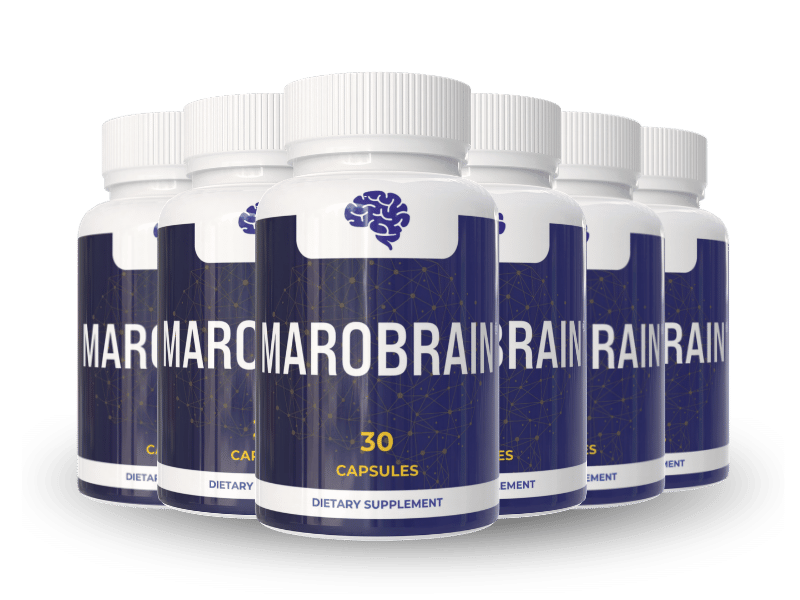
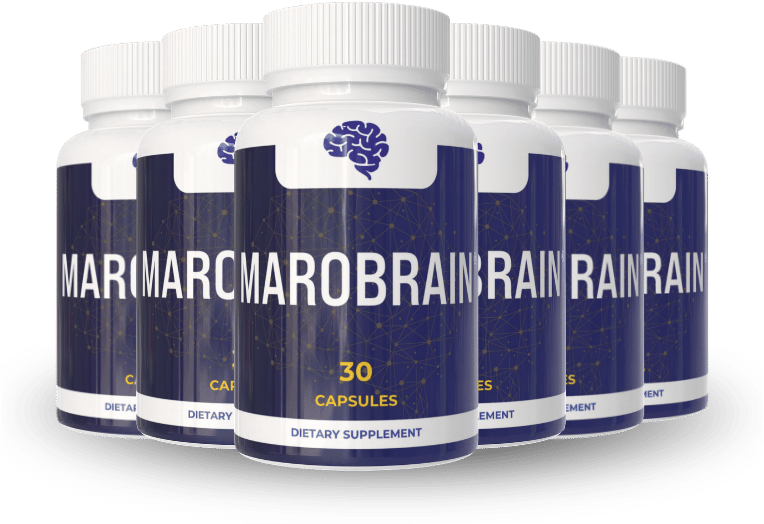
fix(marobrain): ampliar hero-image e kit no desktop com autocrop e regras CSS

diff --git a/assets/css/products/marobrain.css b/assets/css/products/marobrain.css
@@ -18,15 +18,70 @@
   --badge-border: rgba(245, 197, 24, .6);
 }
 
+/* Dimensões e destaque visual aprimorado para o produto Marobrain */
+.hero-image {
+  padding: 30px 0 20px;
+  min-height: 420px;
+  display: flex;
+  align-items: center;
+  justify-content: center;
+}
+.hero-image a {
+  display: inline-flex;
+  justify-content: center;
+  align-items: center;
+  max-width: 100%;
+}
+.hero-image img {
+  width: auto;
+  height: auto;
+  max-height: 440px;
+  max-width: min(580px, 90vw);
+  object-fit: contain;
+  filter: drop-shadow(0 10px 25px rgba(20, 11, 46, 0.14));
+  transition: transform 0.3s ease;
+}
+.hero-image img:hover {
+  transform: scale(1.03);
+}
+
+/* Imagem do Kit Oficial (6 frascos) com proporção nobre e nítida */
+.inline-figure {
+  text-align: center;
+  padding: 24px 20px 35px;
+}
+.inline-figure a {
+  display: inline-block;
+  max-width: 100%;
+}
+.inline-figure img {
+  max-width: 580px;
+  width: 100%;
+  height: auto;
+  margin: 0 auto;
+  filter: drop-shadow(0 12px 28px rgba(20, 11, 46, 0.15));
+  border-radius: 12px;
+  transition: transform 0.3s ease;
+}
+.inline-figure img:hover {
+  transform: scale(1.02);
+}
+
 @media (max-width: 767px) {
+  .hero-image {
+    padding: 16px 0 10px;
+    min-height: 0;
+  }
   .hero-image img {
-    width: auto !important;
-    max-width: 190px !important;
-    max-height: 190px !important;
-    object-fit: contain !important;
+    width: 82%;
+    max-width: 330px;
+    max-height: 340px;
+  }
+  .inline-figure {
+    padding: 15px 15px 25px;
   }
   .inline-figure img {
-    max-width: 230px !important;
-    width: auto !important;
+    max-width: 100%;
+    width: 100%;
   }
 }

diff --git a/reviews/marobrain/index.html b/reviews/marobrain/index.html
@@ -22,7 +22,7 @@
 <link rel="preconnect" href="https://fonts.gstatic.com" crossorigin>
 <link href="https://fonts.googleapis.com/css2?family=Montserrat:wght@400;700&family=Poppins:wght@400;600;700&family=Roboto:wght@400;700&display=swap" rel="stylesheet">
 <link rel="stylesheet" href="../../assets/css/reviews.css">
-<link rel="stylesheet" href="../../assets/css/products/marobrain.css?v=20260814b">
+<link rel="stylesheet" href="../../assets/css/products/marobrain.css?v=20261004a">
 <script src="../../assets/js/reviews.js" defer></script>
 <script type="application/ld+json">
 {
